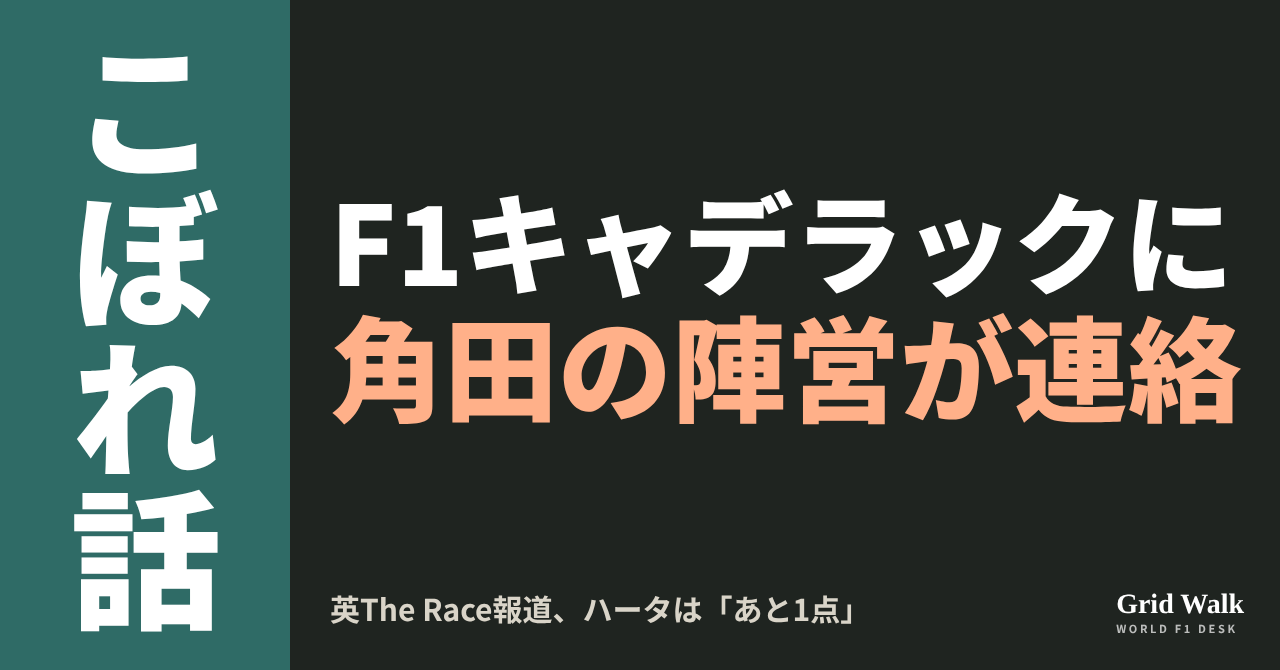
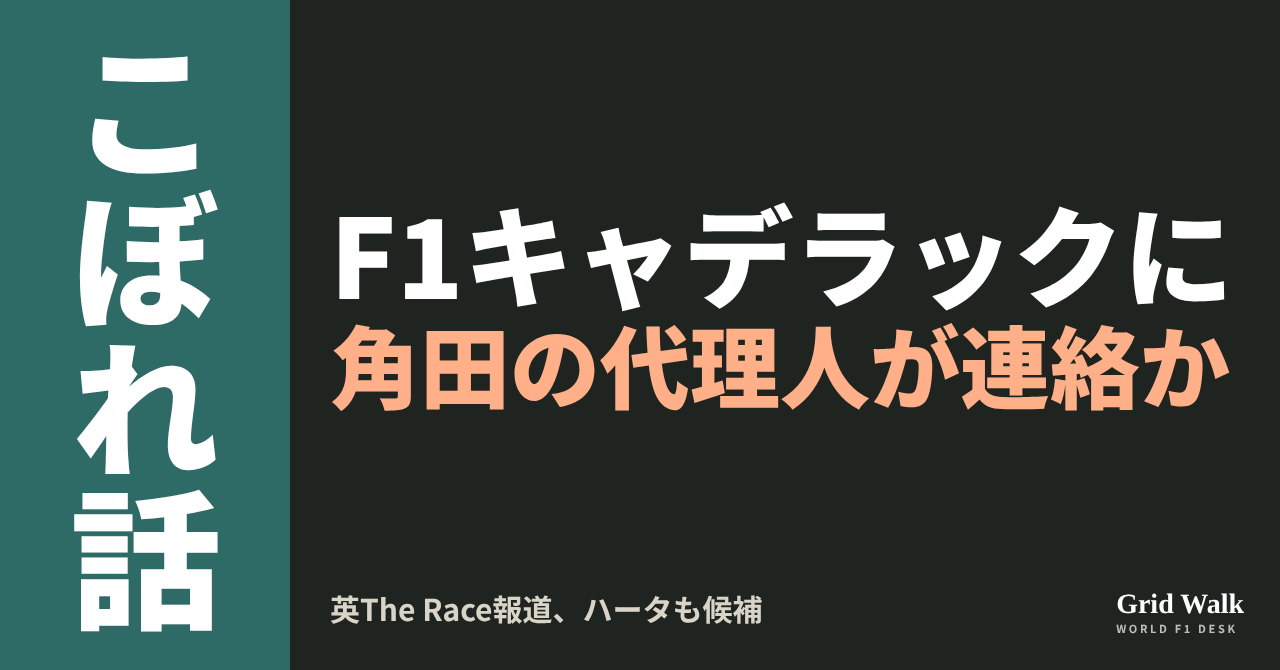
角田とキャデラック：画像T1の文字を確認後の言い方に
Claude-Session: https://claude.ai/code/session_01LGMvzb8B3aK7DkzCCi7qDe

Changed region(s): [[0.25, 0.2687, 0.9688, 0.6567], [0.5, 0.8657, 0.6562, 0.9552], [0.25, 0.4179, 0.2812, 0.4478]]

diff --git a/desk/pending/post-usgp/T1.html b/desk/pending/post-usgp/T1.html
@@ -11,7 +11,7 @@ em{font-style:normal;color:#FFB089}
 .br{position:absolute;right:36px;bottom:34px;font:700 28px Georgia,serif}.br small{display:block;font:700 11px 'Noto Sans CJK JP';letter-spacing:.24em;opacity:.7}
 .row{display:flex;align-items:center;gap:28px;white-space:nowrap;font-weight:900}
 .row svg{flex:0 0 auto}
-</style><div class=c><div class=p><b>こぼれ話</b></div><div class=r><div class=l1>F1キャデラックに</div><div class=l2><em>角田の陣営が連絡</em></div></div><div class=s>英The Race報道、ハータは「あと1点」</div><div class=br>Grid Walk<small>WORLD F1 DESK</small></div></div>
+</style><div class=c><div class=p><b>こぼれ話</b></div><div class=r><div class=l1>F1キャデラックに</div><div class=l2><em>角田の代理人</em>が連絡か</div></div><div class=s>英The Race報道、ハータも候補</div><div class=br>Grid Walk<small>WORLD F1 DESK</small></div></div>
 <script>
 document.querySelectorAll('.l1,.l2,.l3,.s,.row').forEach(el=>{let f=parseFloat(getComputedStyle(el).fontSize);while(el.scrollWidth>el.clientWidth+1&&f>20){f-=2;el.style.fontSize=f+'px'}});
 const r=document.querySelector('.r');let n=0;while(r.scrollHeight>r.clientHeight+1&&n++<80){document.querySelectorAll('.l1,.l2,.l3,.row').forEach(el=>{el.style.fontSize=(parseFloat(getComputedStyle(el).fontSize)-3)+'px'})}
